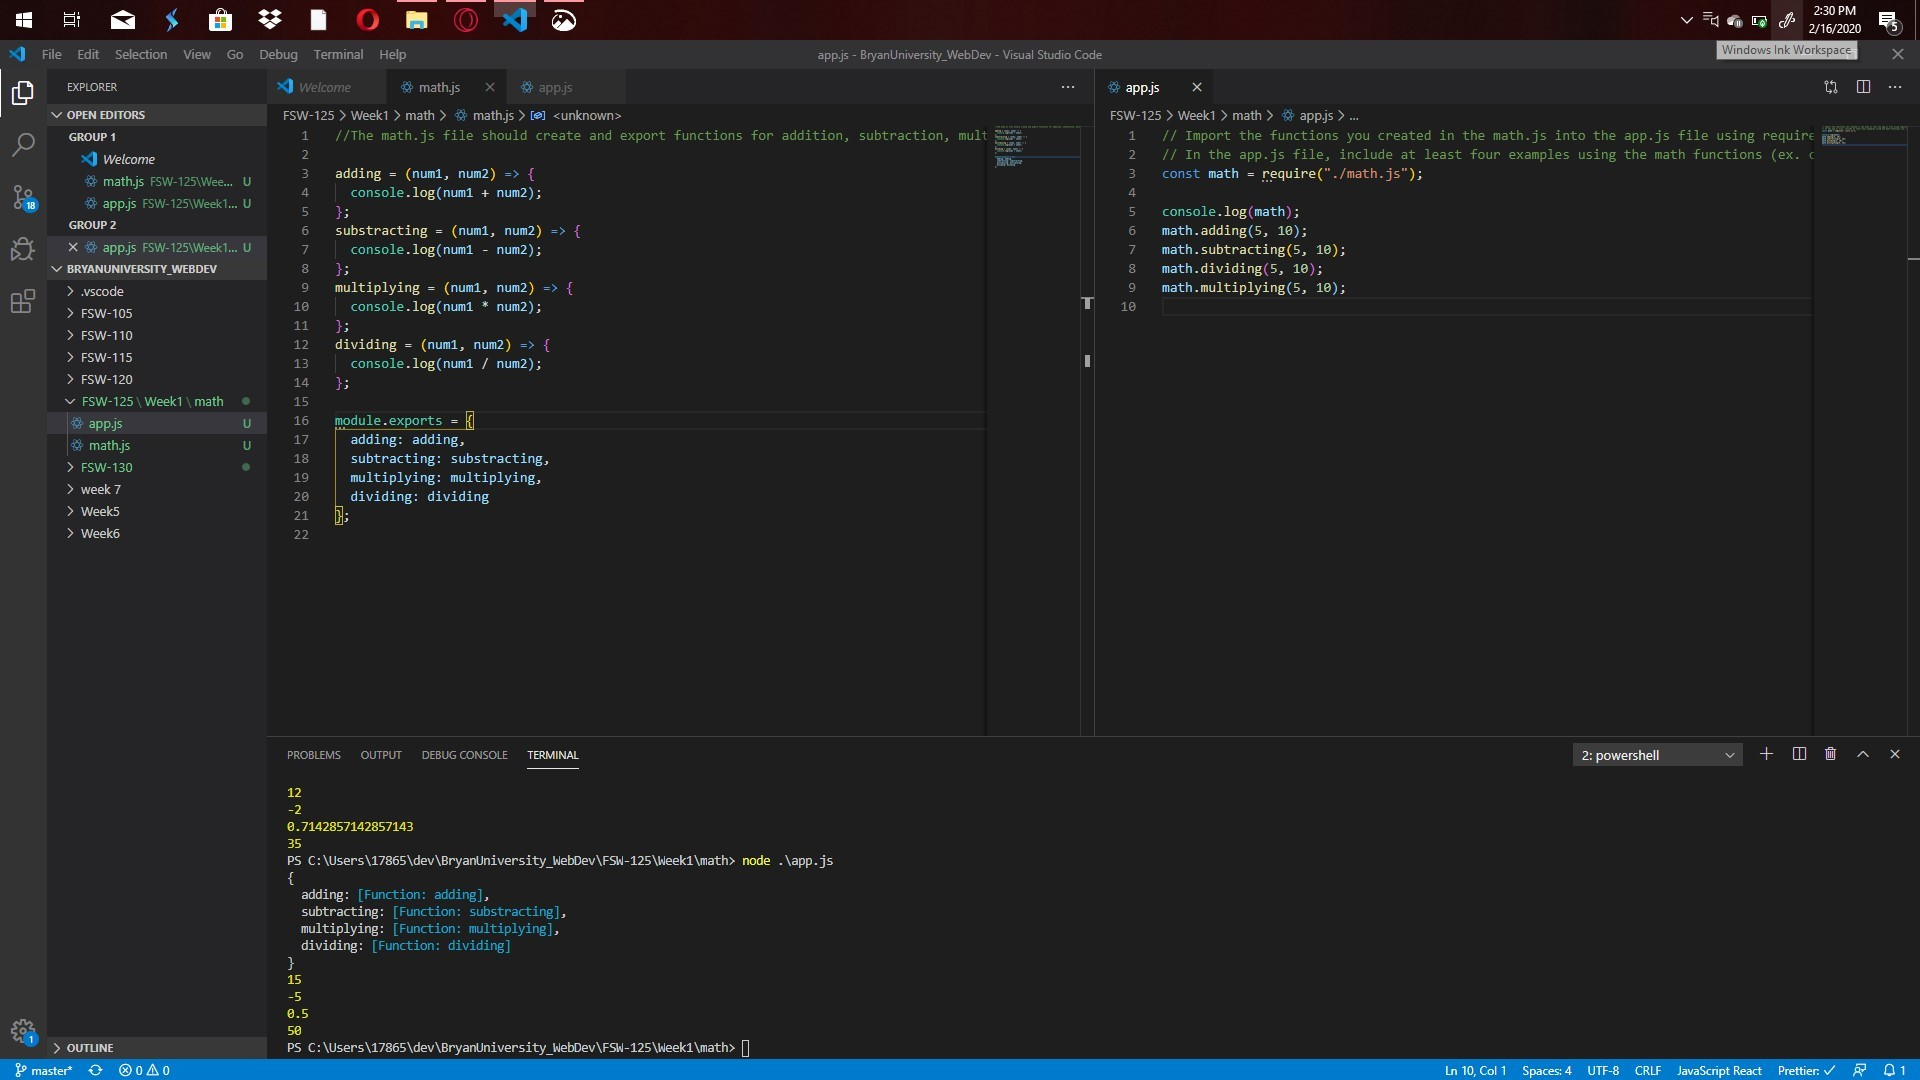
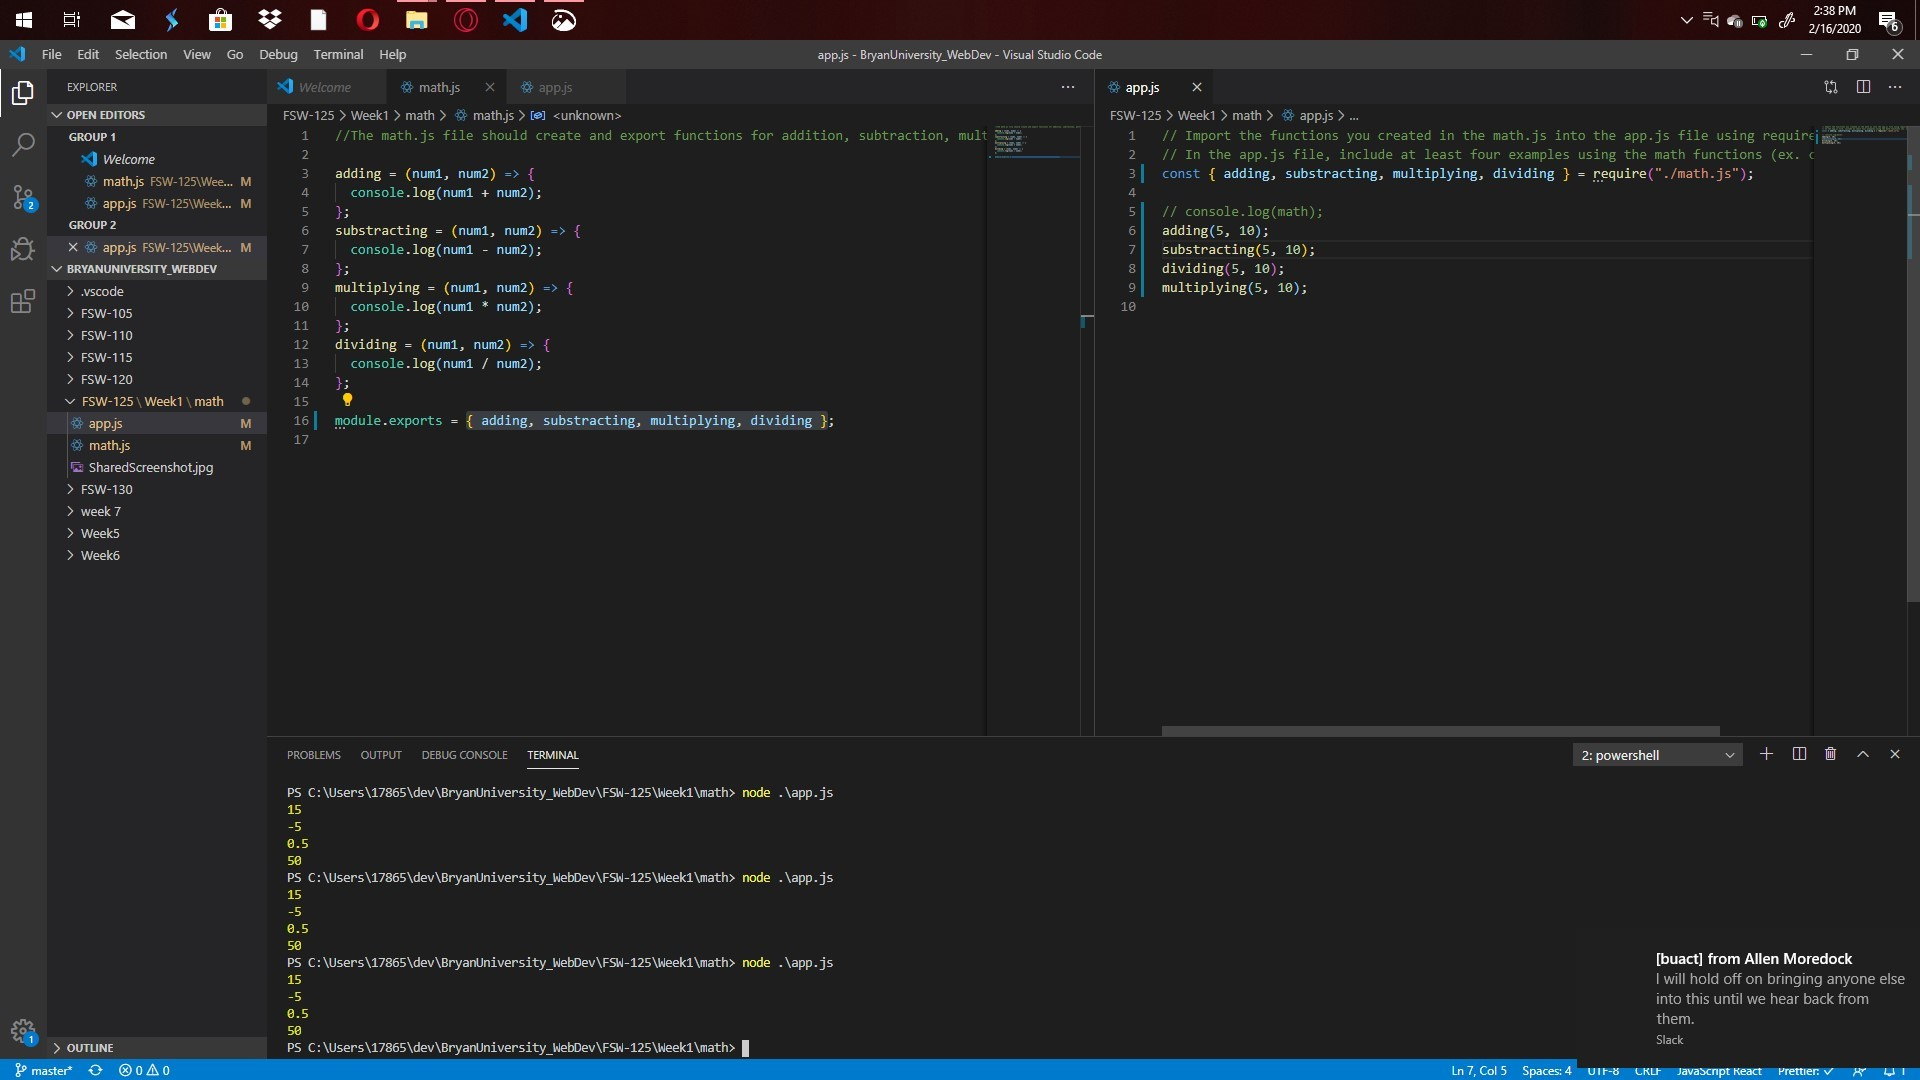
FSW-125 week1

diff --git a/FSW-125/Week1/math/app.js b/FSW-125/Week1/math/app.js
@@ -1,9 +1,9 @@
 // Import the functions you created in the math.js into the app.js file using require.
 // In the app.js file, include at least four examples using the math functions (ex. console.log)
-const math = require("./math.js");
+const { adding, substracting, multiplying, dividing } = require("./math.js");
 
-console.log(math);
-math.adding(5, 10);
-math.subtracting(5, 10);
-math.dividing(5, 10);
-math.multiplying(5, 10);
+// console.log(math);
+adding(5, 10);
+substracting(5, 10);
+dividing(5, 10);
+multiplying(5, 10);

diff --git a/FSW-125/Week1/math/math.js b/FSW-125/Week1/math/math.js
@@ -13,9 +13,4 @@ dividing = (num1, num2) => {
   console.log(num1 / num2);
 };
 
-module.exports = {
-  adding: adding,
-  subtracting: substracting,
-  multiplying: multiplying,
-  dividing: dividing
-};
+module.exports = { adding, substracting, multiplying, dividing };
